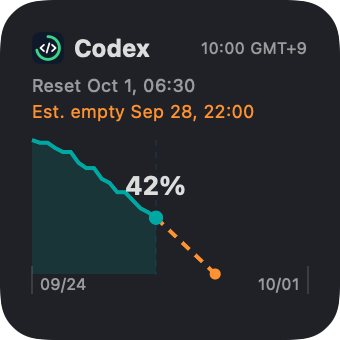
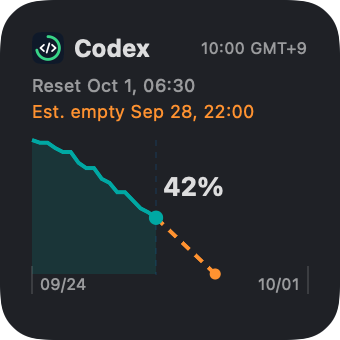
Keep widget remaining labels inside plot and clear of chart lines

Changed region(s): [[0.3529, 0.5, 0.6765, 0.5882]]

diff --git a/Sources/CodexUsageWidget/WeeklyGraphWidget.swift b/Sources/CodexUsageWidget/WeeklyGraphWidget.swift
@@ -87,6 +87,7 @@ private struct WeeklyGraphWidgetRoot: View {
 
 /// Kept independent of widget environment values for native snapshot rendering.
 struct WidgetGraphView: View {
+    @Environment(\.colorScheme) private var colorScheme
     let snapshot: WidgetUsageSnapshot?
     let family: WidgetFamily
 
@@ -255,10 +256,6 @@ struct WidgetGraphView: View {
         let points = displayedPoints(graph, observedAt: observedAt)
         let forecast = forecastDate(graph, observedAt: observedAt)
         let remaining = min(max(graph.remainingPercent, 0), 100)
-        let currentFraction = observedAt.timeIntervalSince(domain.lowerBound)
-            / domain.upperBound.timeIntervalSince(domain.lowerBound)
-        let labelAlignment: Alignment = currentFraction > 0.85 ? .trailing
-            : currentFraction < 0.15 ? .leading : .center
         let tickCount = isSmall ? 2 : 4
         let ticks = (0..<tickCount).map { index in
             domain.lowerBound.addingTimeInterval(
@@ -311,16 +308,7 @@ struct WidgetGraphView: View {
             PointMark(x: .value("Time", observedAt), y: .value("Remaining", remaining))
                 .foregroundStyle(teal)
                 .symbolSize(isSmall ? 40 : 55)
-                .annotation(
-                    position: remaining >= 90 ? .bottom : .top,
-                    alignment: labelAlignment,
-                    spacing: 5
-                ) {
-                    Text(isLarge ? "Now" : "\(remaining)%")
-                        .font(isLarge ? .caption : .system(size: isSmall ? 13 : 16, weight: .bold))
-                        .foregroundStyle(isLarge ? Color.secondary : Color.primary)
-                        .padding(.horizontal, 2)
-                }
+
         }
         .chartXScale(domain: domain)
         .chartYScale(domain: 0...100)
@@ -356,7 +344,62 @@ struct WidgetGraphView: View {
         .chartPlotStyle { plot in
             plot.padding(.top, 4).padding(.bottom, 3)
         }
+        .chartOverlay { proxy in
+            GeometryReader { geometry in
+                let frame: CGRect = {
+                    if #available(macOS 14, *), let anchor = proxy.plotFrame { return geometry[anchor] }
+                    return geometry[proxy.plotAreaFrame]
+                }()
+                if let x = proxy.position(forX: observedAt),
+                   let y = proxy.position(forY: remaining) {
+                    let label = isLarge ? "Now" : "\(remaining)%"
+                    let font = NSFont.systemFont(ofSize: isLarge ? 10 : (isSmall ? 13 : 16),
+                                                 weight: isLarge ? .regular : .bold)
+                    let measured = (label as NSString).size(withAttributes: [.font: font])
+                    let size = CGSize(width: ceil(measured.width) + 8,
+                                      height: ceil(font.ascender - font.descender) + 4)
+                    let segments = labelObstacles(points, forecast: forecast, observedAt: observedAt,
+                                                  remaining: remaining, proxy: proxy)
+                    let placement = GraphLabelPlacement.rect(
+                        point: CGPoint(x: x, y: y), label: size, plot: frame.size, segments: segments)
+                    let needsBacking = segments.contains {
+                        GraphLabelPlacement.intersects($0.0, $0.1, placement.insetBy(dx: -3, dy: -3))
+                    }
+                    Text(label)
+                        .font(Font(font))
+                        .foregroundStyle(isLarge ? Color.secondary : Color.primary)
+                        .frame(width: size.width, height: size.height)
+                        .background(labelBackground.opacity(needsBacking ? 0.94 : 0), in: RoundedRectangle(cornerRadius: 4))
+                        .position(x: frame.minX + placement.midX, y: frame.minY + placement.midY)
+                        .accessibilityHidden(true)
+                }
+            }
+            .allowsHitTesting(false)
+        }
         .accessibilityLabel("Seven-day remaining history, now \(remaining) percent")
+    }
+
+    private var labelBackground: Color {
+        colorScheme == .dark ? Color(red: 0.12, green: 0.13, blue: 0.15) : .white
+    }
+
+    private func labelObstacles(
+        _ points: [WidgetHistoryPoint], forecast: Date?, observedAt: Date,
+        remaining: Int, proxy: ChartProxy
+    ) -> [(CGPoint, CGPoint)] {
+        func position(_ date: Date, _ value: Int) -> CGPoint? {
+            guard let x = proxy.position(forX: date), let y = proxy.position(forY: value) else { return nil }
+            return CGPoint(x: x, y: y)
+        }
+        var segments: [(CGPoint, CGPoint)] = []
+        for (a, b) in zip(points, points.dropFirst()) where a.segment == b.segment {
+            if let start = position(a.observedAt, a.remainingPercent),
+               let end = position(b.observedAt, b.remainingPercent) { segments.append((start, end)) }
+        }
+        if let forecast, let start = position(observedAt, remaining), let end = position(forecast, 0) {
+            segments.append((start, end))
+        }
+        return segments
     }
 
     private func displayedPoints(
@@ -376,4 +419,64 @@ struct WidgetGraphView: View {
         return graph.forecastDate(observedAt: observedAt)
     }
 
+}
+
+/// Place the measured label inside the plot, away from the point and actual/forecast lines.
+/// A compact backing keeps it readable if a dense history leaves no fully clear candidate.
+enum GraphLabelPlacement {
+    static func rect(point: CGPoint, label: CGSize, plot: CGSize,
+                     segments: [(CGPoint, CGPoint)]) -> CGRect {
+        let bounds = CGRect(origin: .zero, size: plot).insetBy(dx: 2, dy: 2)
+        let gap: CGFloat = 9
+        let centered = point.x - label.width / 2
+        let xs = [centered, point.x + gap, point.x - gap - label.width]
+        let ys = [point.y - gap - label.height, point.y + gap]
+        var candidates = ys.flatMap { y in xs.map { x in
+            CGRect(x: min(max(x, bounds.minX), max(bounds.minX, bounds.maxX - label.width)),
+                   y: min(max(y, bounds.minY), max(bounds.minY, bounds.maxY - label.height)),
+                   width: label.width, height: label.height)
+        } }
+        // Side positions remain usable when the plot is too short for above/below.
+        for x in xs.dropFirst() {
+            candidates.append(CGRect(x: min(max(x, bounds.minX), max(bounds.minX, bounds.maxX - label.width)),
+                y: min(max(point.y - label.height / 2, bounds.minY), max(bounds.minY, bounds.maxY - label.height)),
+                width: label.width, height: label.height))
+        }
+        // Broaden the search in short plots, where clamping near-point candidates can
+        // place them back across a steep history or forecast line.
+        for row in 0...8 {
+            for column in 0...8 {
+                let x = bounds.minX + max(0, bounds.width - label.width) * CGFloat(column) / 8
+                let y = bounds.minY + max(0, bounds.height - label.height) * CGFloat(row) / 8
+                candidates.append(CGRect(origin: CGPoint(x: x, y: y), size: label))
+            }
+        }
+        let pointArea = CGRect(x: point.x - 5, y: point.y - 5, width: 10, height: 10)
+        func score(_ rect: CGRect) -> CGFloat {
+            let near = rect.insetBy(dx: -3, dy: -3)
+            let collisions = segments.filter { intersects($0.0, $0.1, near) }.count
+            let distance = hypot(rect.midX - point.x, rect.midY - point.y)
+            return CGFloat(collisions) * 1000 + (rect.intersects(pointArea) ? 10000 : 0) + distance
+        }
+        return candidates.enumerated().min {
+            let a = score($0.element), b = score($1.element)
+            return a == b ? $0.offset < $1.offset : a < b
+        }!.element
+    }
+
+    static func intersects(_ a: CGPoint, _ b: CGPoint, _ rect: CGRect) -> Bool {
+        // Liang–Barsky clipping also covers vertical/horizontal and zero-length segments.
+        var lower: CGFloat = 0, upper: CGFloat = 1
+        let dx = b.x - a.x, dy = b.y - a.y
+        for (p, q) in [(-dx, a.x - rect.minX), (dx, rect.maxX - a.x),
+                       (-dy, a.y - rect.minY), (dy, rect.maxY - a.y)] {
+            if p == 0 { if q < 0 { return false } }
+            else {
+                let ratio = q / p
+                if p < 0 { lower = max(lower, ratio) } else { upper = min(upper, ratio) }
+                if lower > upper { return false }
+            }
+        }
+        return true
+    }
 }

diff --git a/tests/WidgetLabelPlacementChecks.swift b/tests/WidgetLabelPlacementChecks.swift
@@ -1,0 +1,20 @@
+var count = 0
+for (width,height,font) in [(138.0,58.0,13.0),(328.0,82.0,16.0),(280.0,154.0,10.0)] {
+ for percent in 0...100 {
+  for fraction in [0.0,0.01,0.03,0.08,0.5,0.85,0.97,0.99,1.0] {
+   let label = "\(percent)%" as NSString
+   let f = NSFont.systemFont(ofSize:font,weight:.bold)
+   let measured=label.size(withAttributes:[.font:f])
+   let size=CGSize(width:ceil(measured.width)+8,height:ceil(f.ascender-f.descender)+4)
+   let point=CGPoint(x:width*fraction,y:height*(1-Double(percent)/100))
+   let segments:[(CGPoint,CGPoint)] = [(CGPoint(x:0,y:0),point),(point,CGPoint(x:width,y:height))]
+   let r=GraphLabelPlacement.rect(point:point,label:size,plot:CGSize(width:width,height:height),segments:segments)
+   let bounds=CGRect(x:0,y:0,width:width,height:height)
+   precondition(bounds.contains(r),"label outside plot")
+   precondition(!r.intersects(CGRect(x:point.x-5,y:point.y-5,width:10,height:10)),"label overlaps current point")
+   precondition(!segments.contains{GraphLabelPlacement.intersects($0.0,$0.1,r.insetBy(dx:-3,dy:-3))},"label overlaps line")
+   count += 1
+  }
+ }
+}
+print("Placement checks passed: \(count) combinations; plot bounds, point gap, actual/forecast line clearance")

diff --git a/scripts/verify-widget-label-placement.py b/scripts/verify-widget-label-placement.py
@@ -1,0 +1,14 @@
+#!/usr/bin/env python3
+"""Run native macOS geometry checks against the production widget placement helper."""
+from pathlib import Path
+import subprocess
+import tempfile
+
+root = Path(__file__).resolve().parent.parent
+source = (root / "Sources/CodexUsageWidget/WeeklyGraphWidget.swift").read_text()
+helper = "enum GraphLabelPlacement {" + source.split("enum GraphLabelPlacement {", 1)[1]
+checks = (root / "tests/WidgetLabelPlacementChecks.swift").read_text()
+with tempfile.TemporaryDirectory(prefix="widget-label-check-") as folder:
+    fixture = Path(folder) / "PlacementCheck.swift"
+    fixture.write_text("import AppKit\n" + helper + "\n" + checks)
+    subprocess.run(["swift", str(fixture)], check=True)
